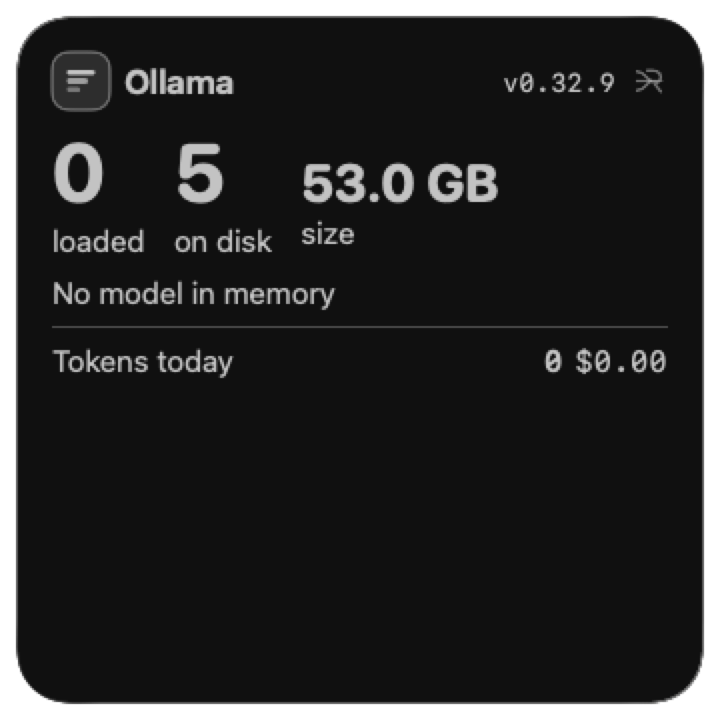
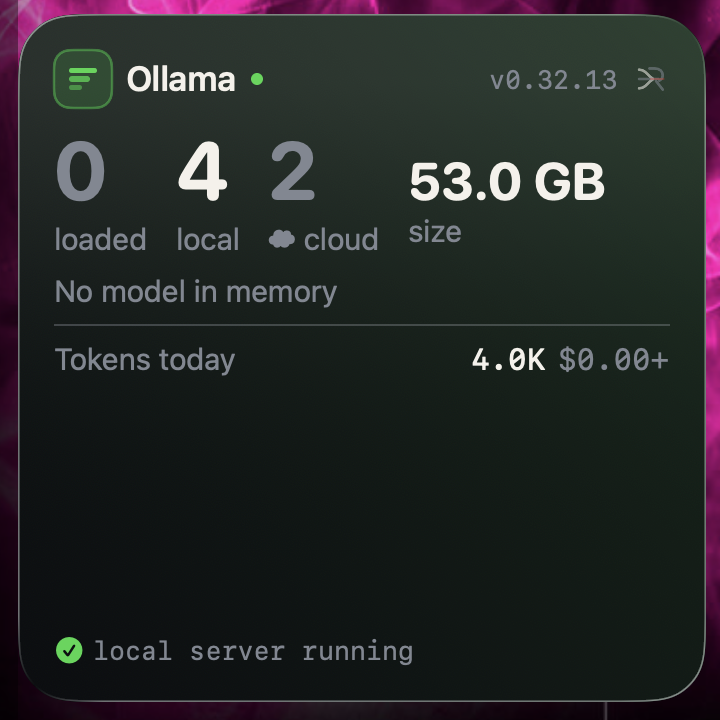
Widget screenshots showing the health line

diff --git a/site/index.html b/site/index.html
@@ -394,15 +394,15 @@
 
     <div class="shots shots-three">
       <figure class="shot">
-        <img src="img/claude-widget.png" alt="Claude widget showing session and week percentages" loading="lazy">
+        <img src="img/claude-widget.png" alt="Claude widget showing session and week percentages, tokens, cost, and the reported service health" loading="lazy">
         <figcaption>Claude</figcaption>
       </figure>
       <figure class="shot">
-        <img src="img/codex-widget.png" alt="Codex widget showing the week percentage" loading="lazy">
+        <img src="img/codex-widget.png" alt="Codex widget showing the week percentage, tokens, cost, and service health" loading="lazy">
         <figcaption>Codex</figcaption>
       </figure>
       <figure class="shot">
-        <img src="img/ollama-widget.png" alt="Ollama widget showing loaded and downloaded models" loading="lazy">
+        <img src="img/ollama-widget.png" alt="Ollama widget showing loaded, local and cloud model counts and the local server state" loading="lazy">
         <figcaption>Ollama</figcaption>
       </figure>
     </div>

diff --git a/README.md b/README.md
@@ -54,7 +54,7 @@ Widgets, one per track, configurable from the widget's own settings:
 
 | Claude | Codex | Ollama |
 | --- | --- | --- |
-| <img src="site/img/claude-widget.png" alt="Claude widget showing session and week percentages" width="230"> | <img src="site/img/codex-widget.png" alt="Codex widget showing week percentage" width="230"> | <img src="site/img/ollama-widget.png" alt="Ollama widget showing loaded and downloaded models" width="230"> |
+| <img src="site/img/claude-widget.png" alt="Claude widget showing session and week percentages, tokens, cost, and the reported service health" width="230"> | <img src="site/img/codex-widget.png" alt="Codex widget showing the week percentage, tokens, cost, and service health" width="230"> | <img src="site/img/ollama-widget.png" alt="Ollama widget showing loaded, local and cloud model counts and the local server state" width="230"> |
 
 ## What it shows
 
